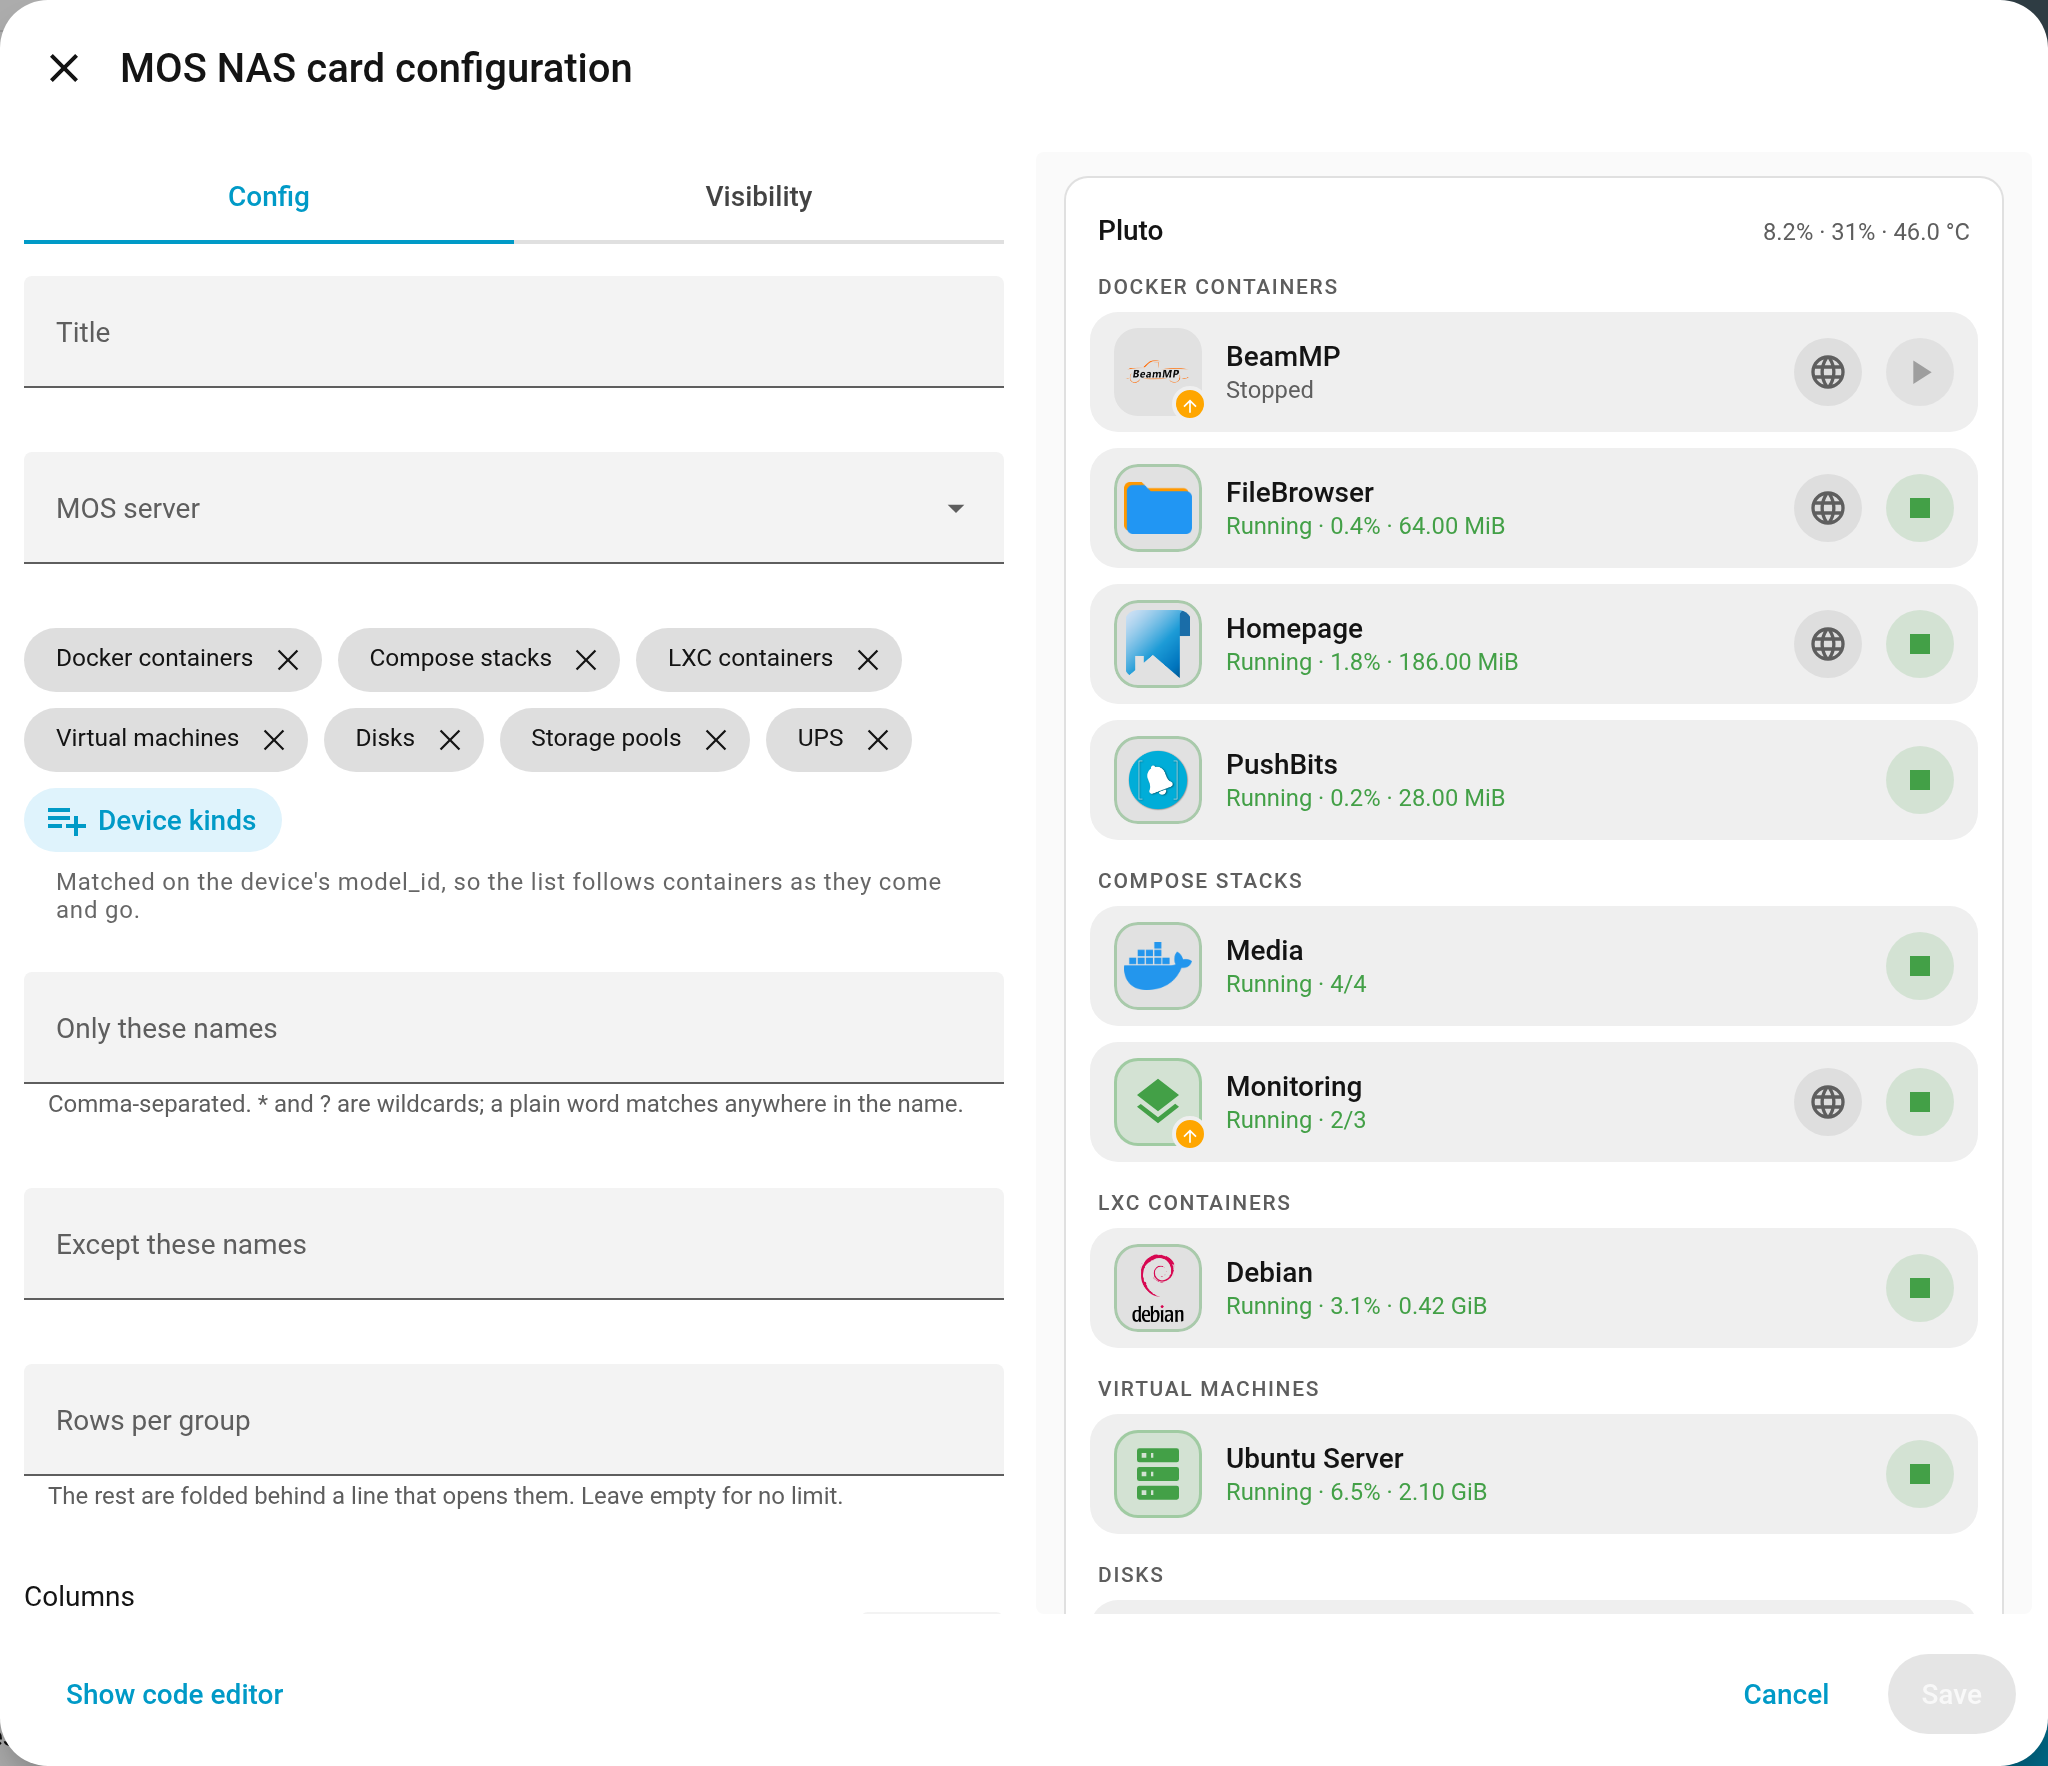
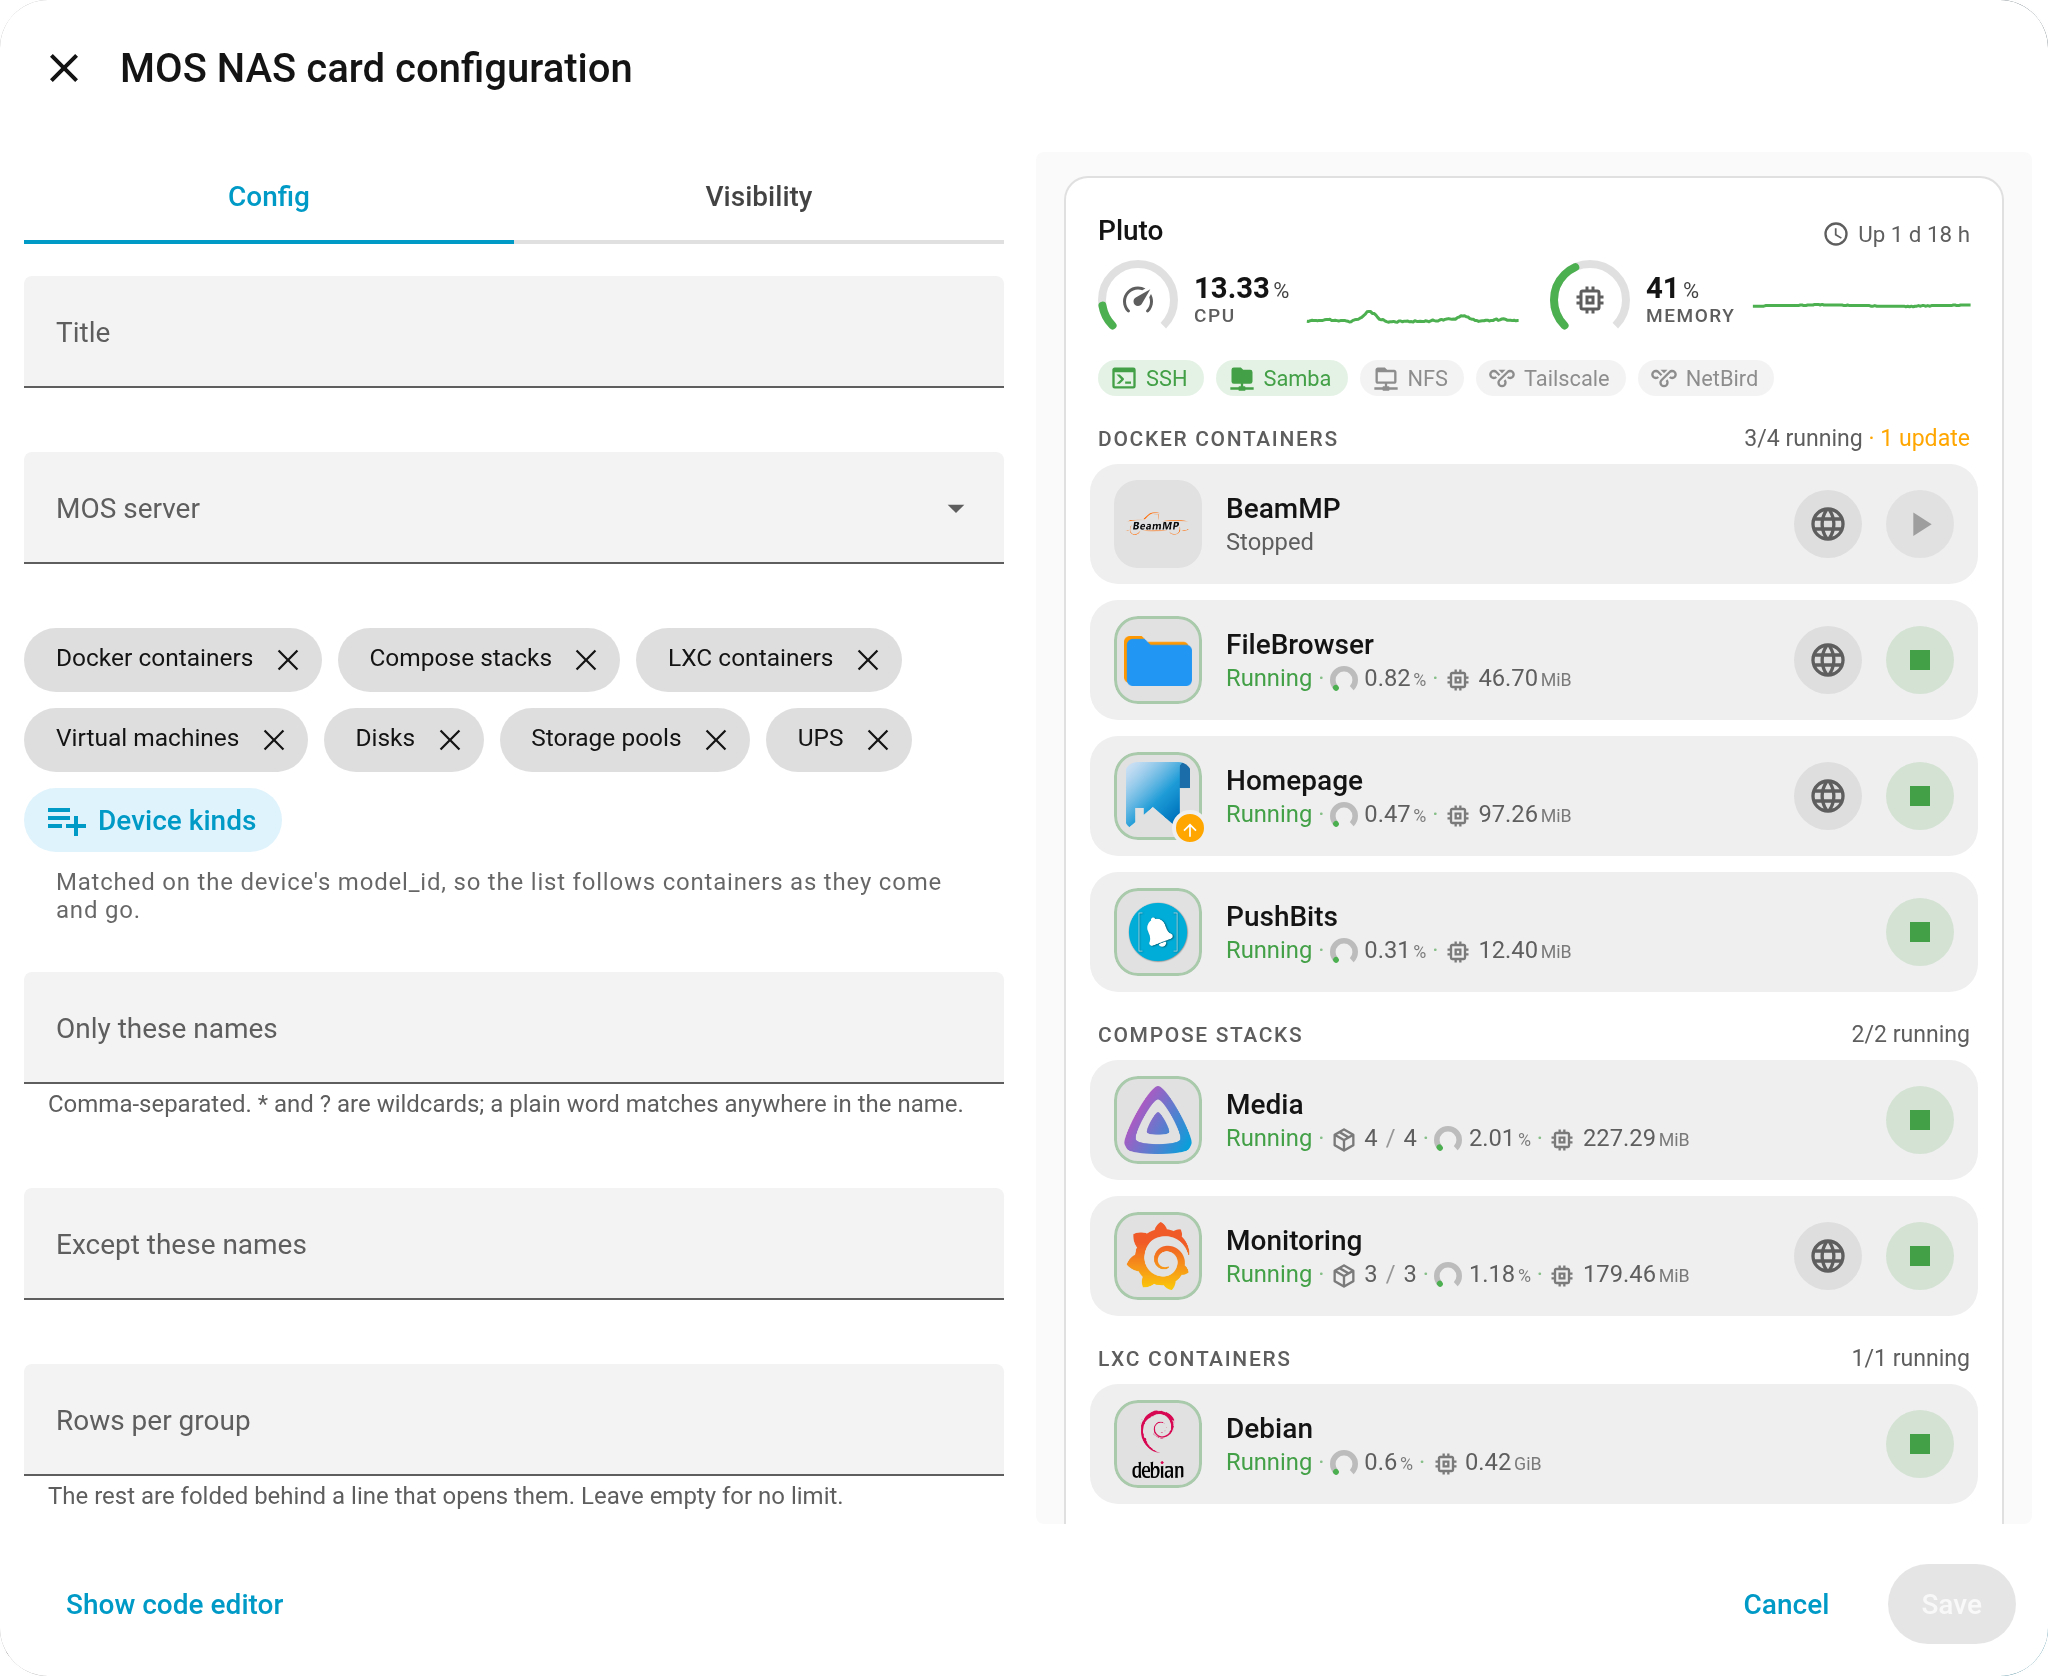
docs: refresh the screenshots for the new card design
- Replace the list card screenshots with the rings, history and counts
- Add light and dark screenshots of the overview card to the README

diff --git a/README.md b/README.md
@@ -213,6 +213,9 @@ type: custom:mos-overview-card
 navigation_path: /mos/[[kind]]
 ```
 
+| <img src="https://raw.githubusercontent.com/anym001/ha-mos-card/main/assets/overview-card-light.png" width="400" alt="The overview card on a light theme"> | <img src="https://raw.githubusercontent.com/anym001/ha-mos-card/main/assets/overview-card-dark.png" width="400" alt="The overview card on a dark theme"> |
+| :--------------------------------------------------------------------------------------------------------------------------------------------------------: | :------------------------------------------------------------------------------------------------------------------------------------------------------: |
+
 | Name              | Type    | Description                                                            | Default     |
 | ----------------- | ------- | ---------------------------------------------------------------------- | ----------- |
 | `type`            | string  | **Required.** `custom:mos-overview-card`                               |             |
